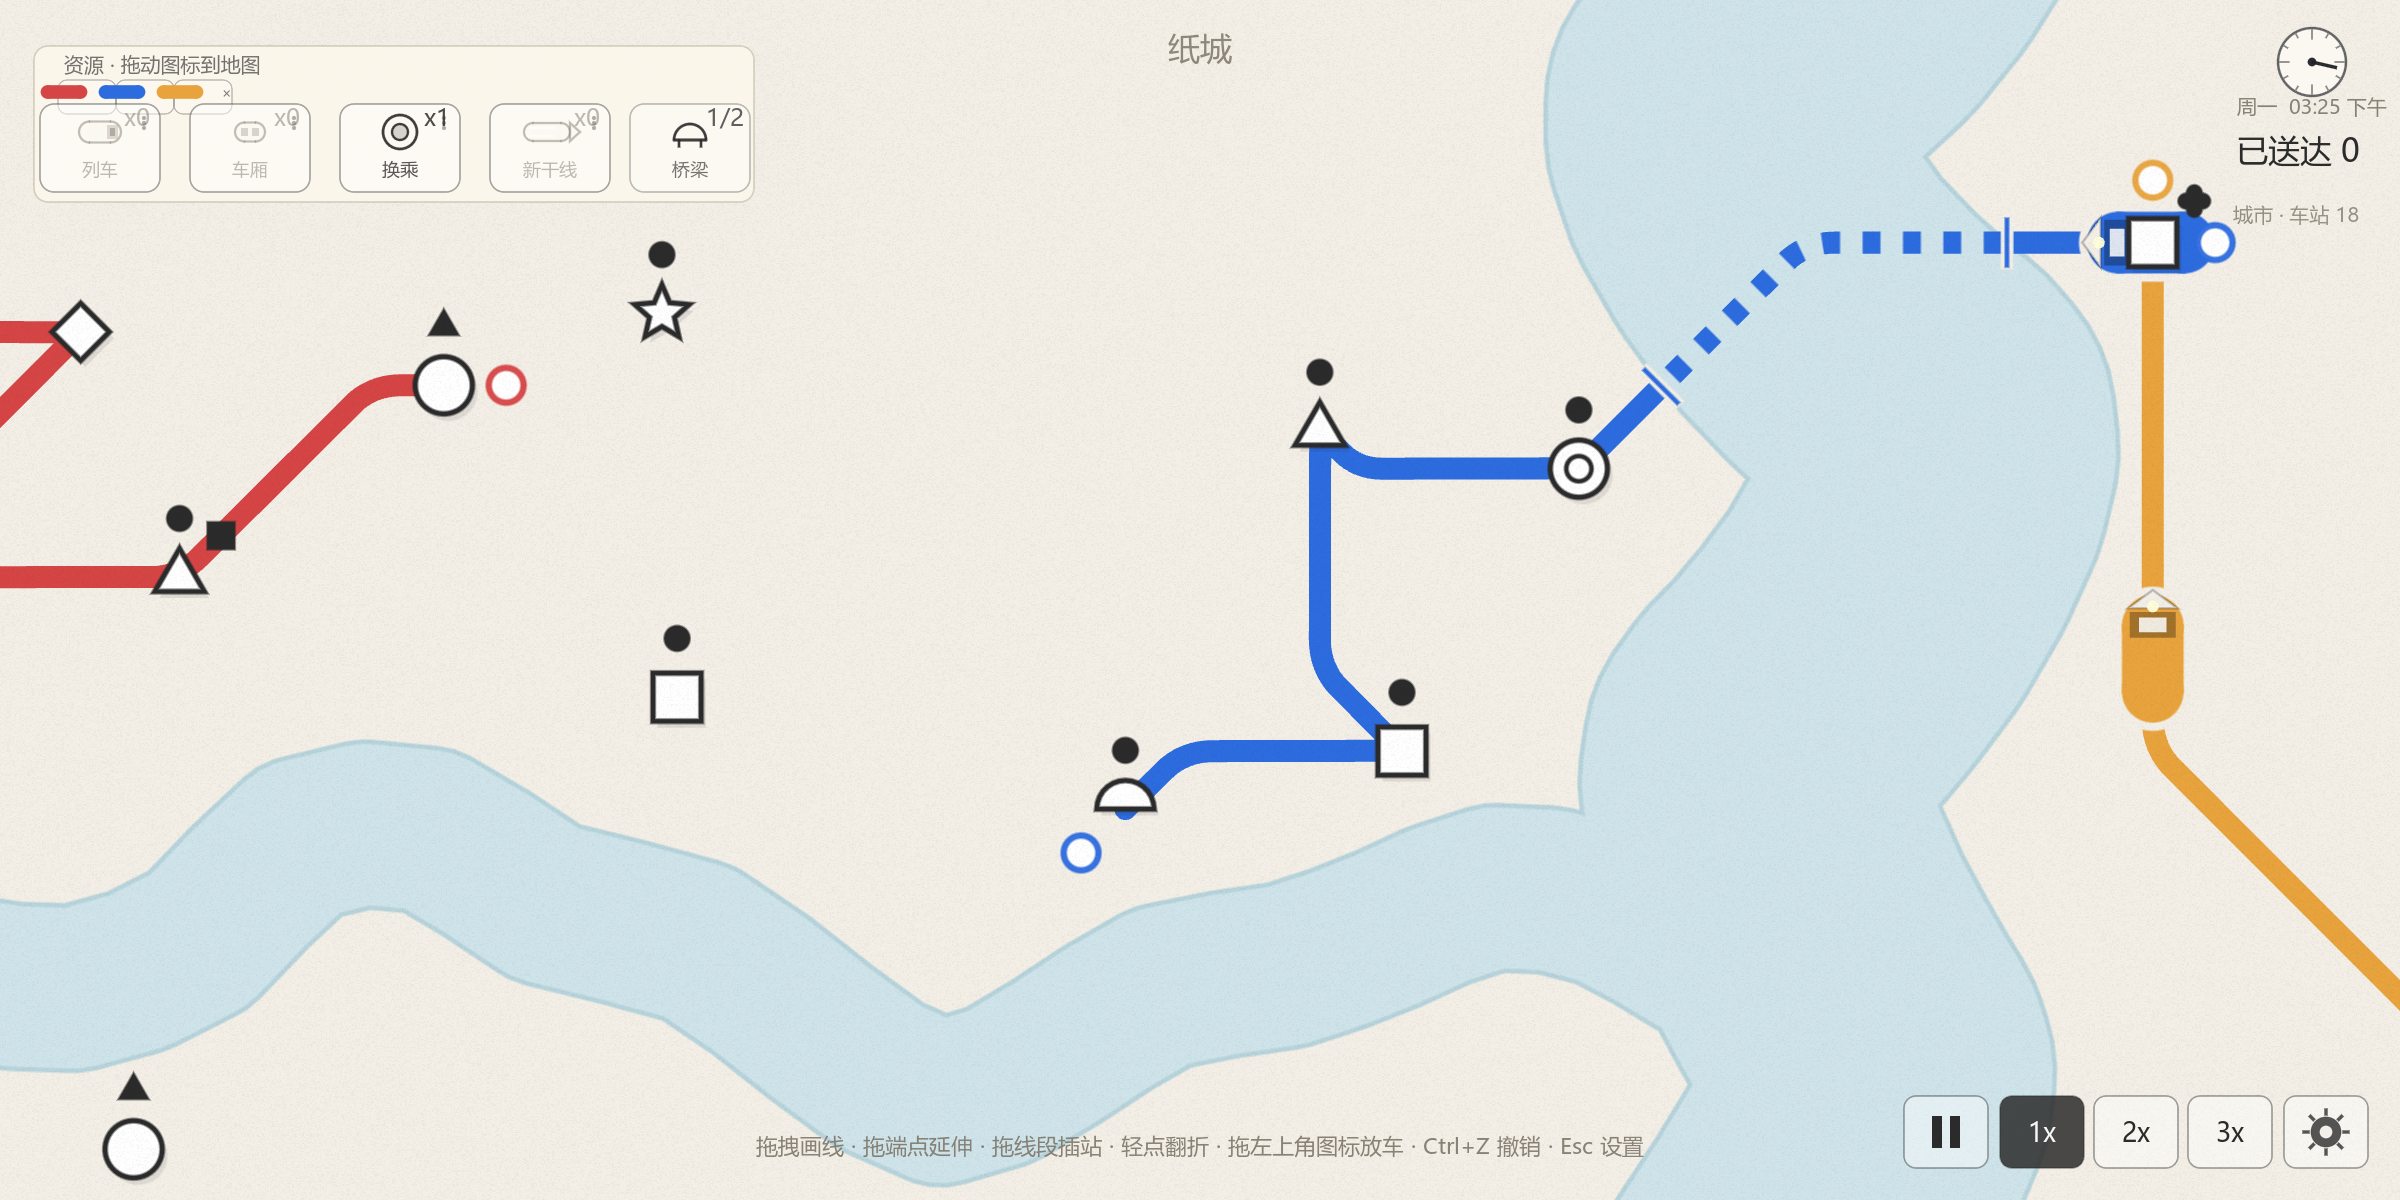
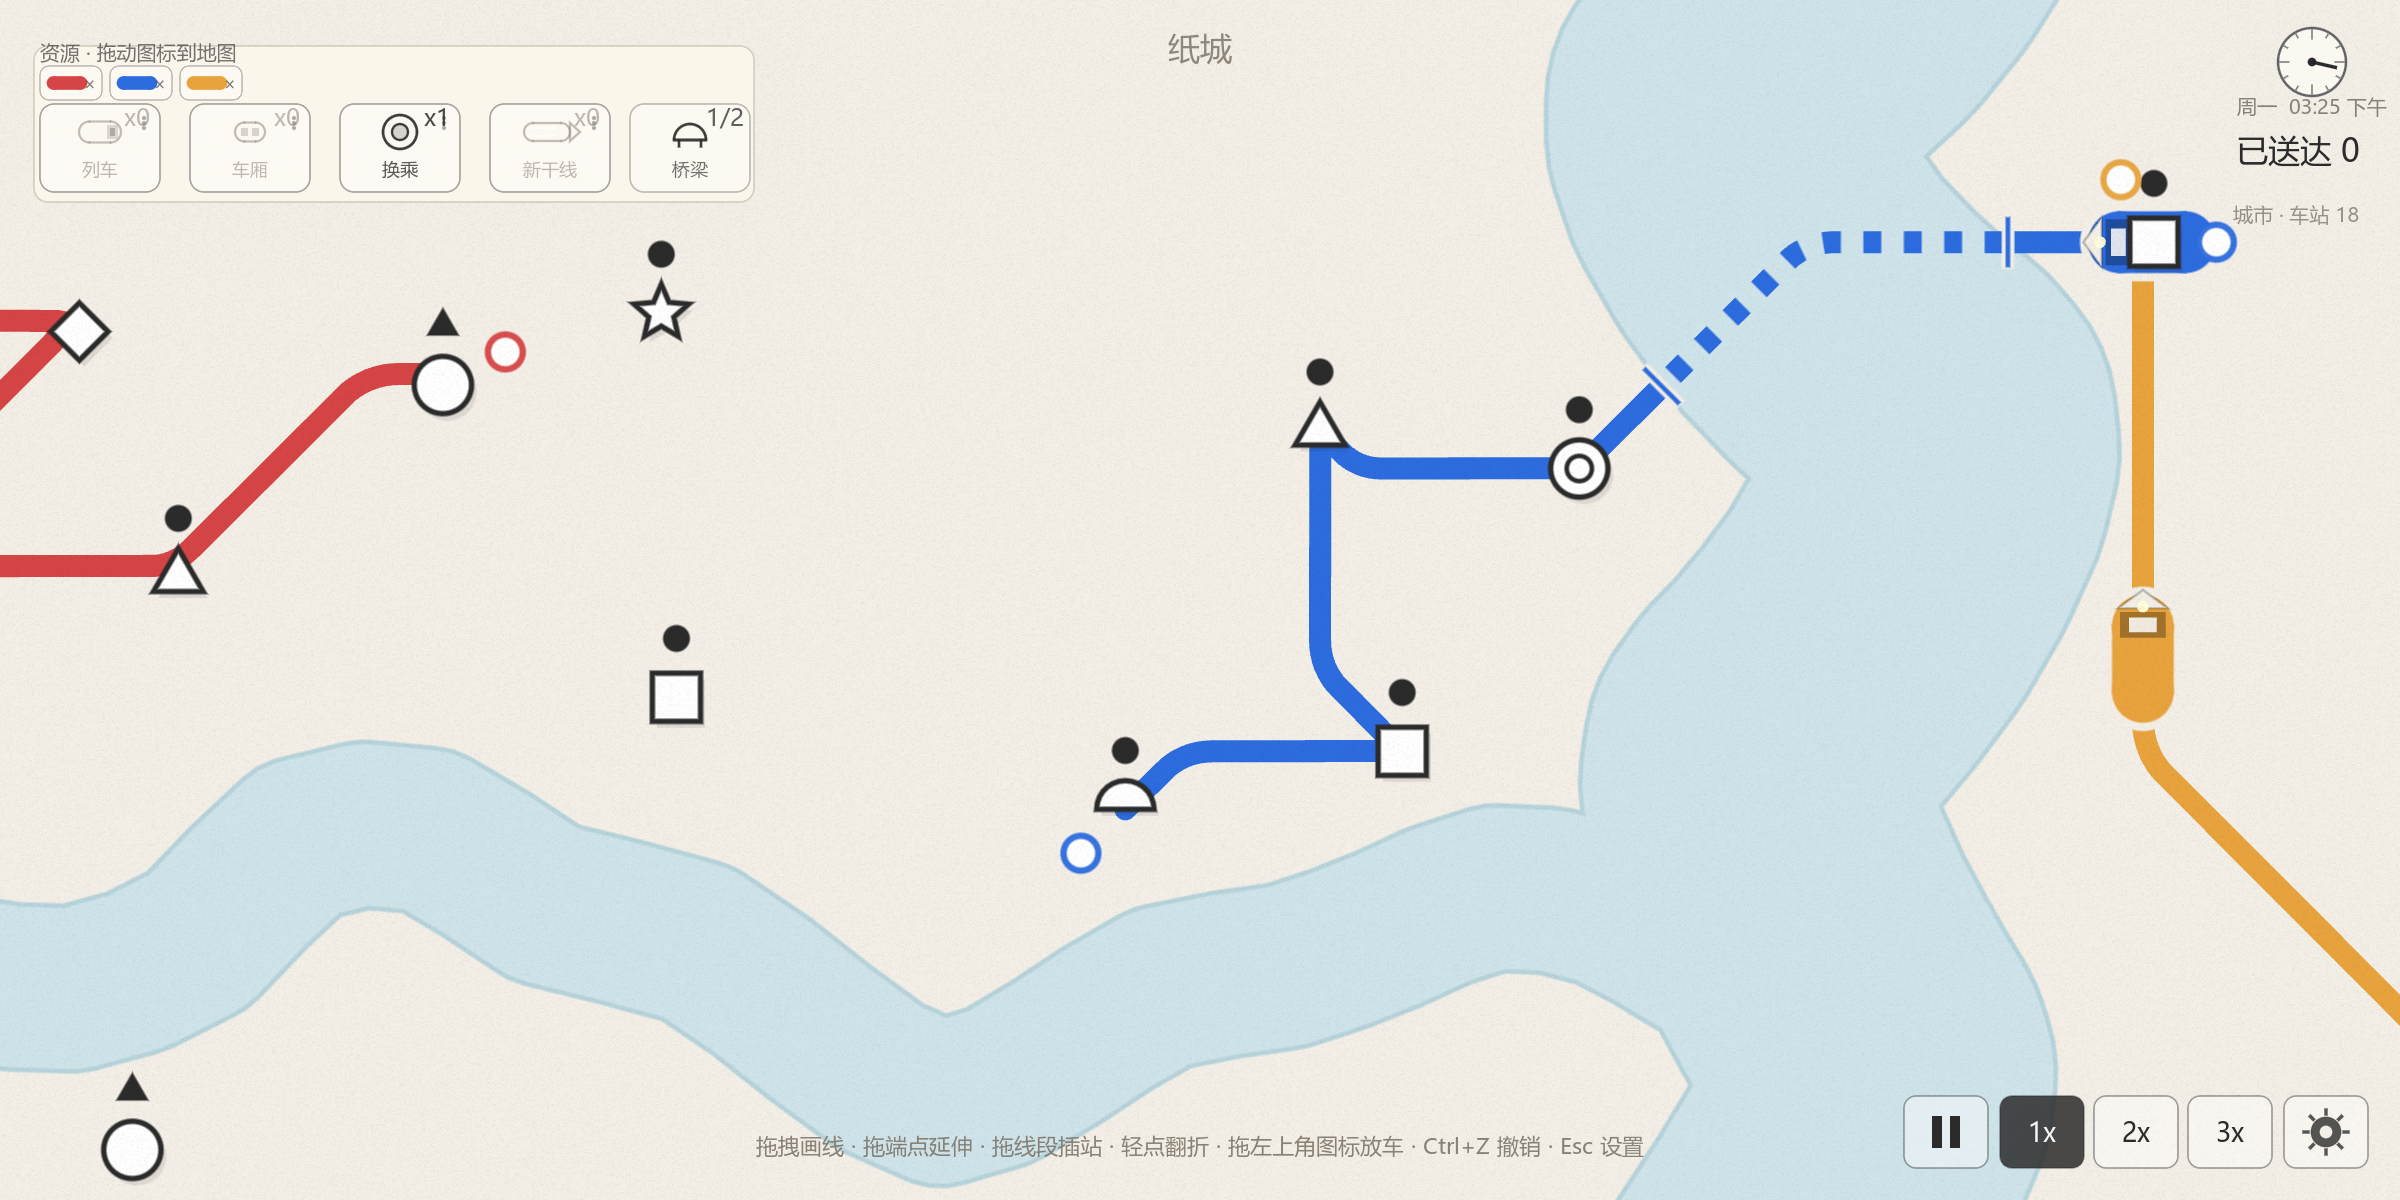
Selected-line station outlines, aligned line chips, edge-safe station spawns
- While drawing/extending/reordering/dragging a segment, LineEditor exposes the
  active line and draws a colored ring around every station on it.
- Rework top-left line buttons into uniform 62x34 button boxes aligned with the
  resource cards; color capsule centered and small x aligned inside; hit area is
  the whole button.
- Spawn world rect now insets the camera-visible area (140px screen x, 90px
  screen bottom) before spawn sampling, so new stations stay away from screen/
  map edges; updated story test for the new spawn bounds.
- Tests: 807 checks. APK re-exported.

diff --git a/README.md b/README.md
@@ -109,9 +109,13 @@
 ![取消整条线路](docs/images/line-cancel.png)
 - **旧线收尾**：手动改线后，只有**旧线与新线不一样的那一段**上的列车会沿旧线行驶完（增删站、换序、改变弯曲方向都算"不一样"）；浅色旧线只画这些差异段，**列车视图也按旧几何采样**（不会出现旧线还在、车却跳到新线上的情况），等这些列车收尾结束就消失
 - **环线闭合段**：环线末站→首站的那一段也可以拖动、轻点翻转、拖入新站，或拖到端点站停留 0.8s 移出
+- **选中线路高亮**：正在画线/拖线段/重排某条线路时，该线所有车站都会用这条线的颜色描边，方便确认改的是哪条线
 - **环线双向行驶**：把车拖到环线上时，按“最近的站台”决定顺时针或逆时针；到达后保持该方向绕环，不再强制所有车同向
 - **重叠线路错开**：多条线走同一段时，每条线按线号沿法线横向错开约 6px；列车、车厢、端点手柄也跟随错开，末端圆形手柄额外加大错位，避免全部叠在一起
+- **新站避边**：新车站生成区域在相机可见范围基础上再向内收缩（屏幕左右约 140px、底部约 90px），不再贴着屏幕/地图边缘生成
 - **夜晚地面变暗、河流不变色**：入夜后地面和地图外桌面变为深灰，河流保持白天的浅蓝色；HUD、线路、列车保持原色；地图名、时间、分数、底部提示在夜间自动切成浅色文字
+
+![选中线路的站点描边](docs/images/selected-line.png)
 
 ![重叠线路错开](docs/images/overlap.png)
 
@@ -364,7 +368,7 @@ $godot = "D:\Downloads\06_游戏与Flash资源\Godot_v4.7.2-stable_win64.exe\God
 ```powershell
 $godot = "D:\Downloads\06_游戏与Flash资源\Godot_v4.7.2-stable_win64.exe\Godot_v4.7.2-stable_win64_console.exe"
 & $godot --headless --path . --script res://tests/run_tests.gd
-# 期望输出：TESTS PASSED (805 checks)
+# 期望输出：TESTS PASSED (807 checks)
 ```
 
 覆盖：八向几何与弯曲翻转、弧长采样、网络增删、画线/撤销/重排/翻转/插站/停留移除手势、换乘寻路、
@@ -481,7 +485,7 @@ view/                     表现层（Node2D，只读模型）
 input/line_editor.gd      画线手势状态机（IDLE / DRAFT / REORDER / SEGMENT）+ Esc 设置信号
 ui/hud.gd                 资源/分数、周抽卡、换乘点选、模式菜单、暂停设置、结束遮罩（双语）
 tools/demo_setup.gd       截图用确定性布局
-tests/                    headless 测试（805 checks）
+tests/                    headless 测试（807 checks）
 export_presets.cfg        Windows Desktop 导出预设
 art/shaders/paper_grain.gdshader  极轻纸纹
 docs/设计方案.md           完整实现方案（机制拆解 / 架构 / 里程碑）

diff --git a/docs/设计方案.md b/docs/设计方案.md
@@ -21,7 +21,7 @@
 > **城镇五阶段发展（开局固定 3 站，形状逐步解锁、相机 2.0→1.0）**、**2400×1200 窗口/大地图与更多水系**、
 > 列车放大 1.5 倍并绘制车头、可点击倍速、
 > **初始 3 条 / 上限 7 条线路**、**闭合环线（列车单向循环、接缝处首末手柄分开）**、
-> 存档与设置、中英双语、Windows 导出、地图编辑器（自由画河/分享码）、Android APK 导出、Supabase 云端排行榜/每日挑战/地图大厅。headless 测试 805 checks 全通过，截图见 `docs/images/`。
+> 存档与设置、中英双语、Windows 导出、地图编辑器（自由画河/分享码）、Android APK 导出、Supabase 云端排行榜/每日挑战/地图大厅。headless 测试 807 checks 全通过，截图见 `docs/images/`。
 > 运行/测试/导出说明见 [README](../README.md)。
 
 ---
